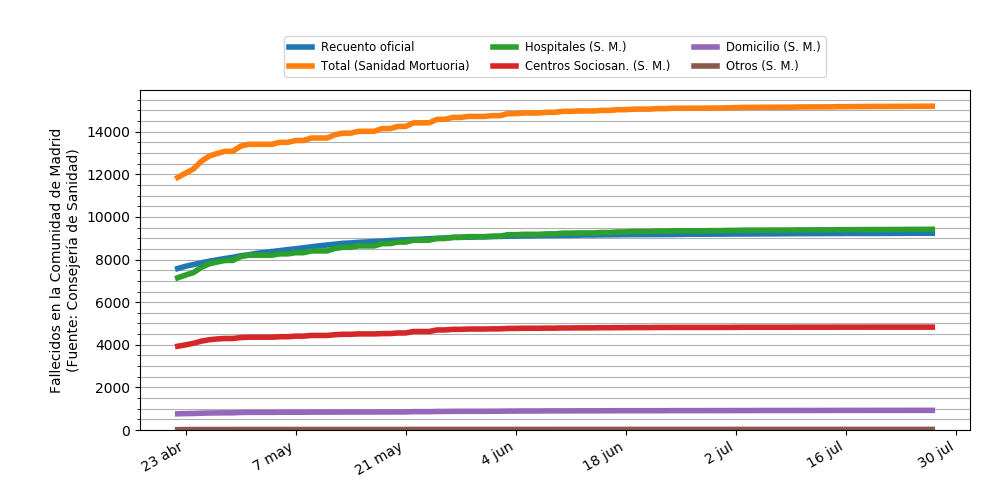
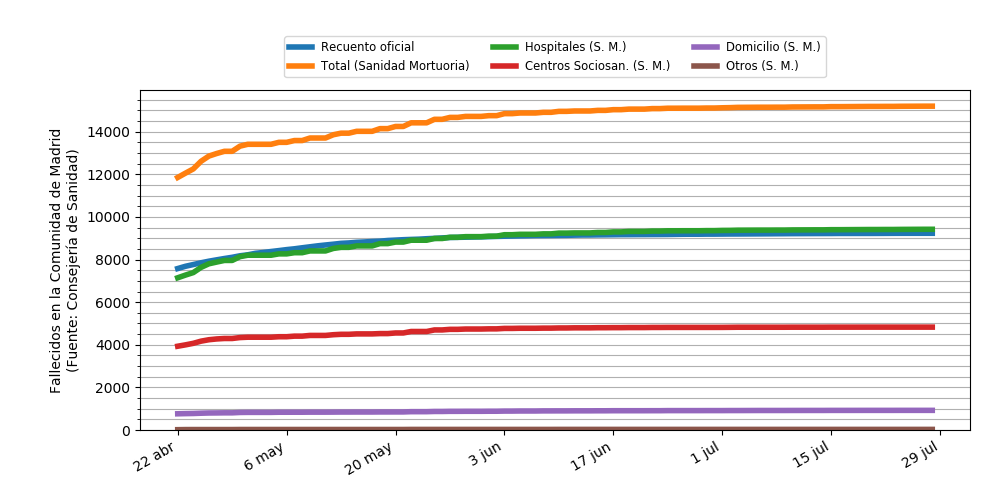
Add files via upload

diff --git a/covidia-cam/descarga_cam.py b/covidia-cam/descarga_cam.py
@@ -8,20 +8,19 @@ https://www.comunidad.madrid/servicios/salud/2019-nuevo-coronavirus#situacion-ep
 """
 
 import os.path as pth
-
-from descargabib import descarga
 import datetime as dt
 import time
 from glob import glob
+import re
+import pandas as pd
 
 from pdfminer.pdfinterp import PDFResourceManager, PDFPageInterpreter #process_pdf
 from pdfminer.pdfpage import PDFPage
 from pdfminer.converter import TextConverter
 from pdfminer.layout import LAParams
-
 from io import StringIO
-import re
-import pandas as pd
+
+from descargabib import descarga
 
 expnumber = re.compile(r'^ *(\d+(?: ?\. ?\d+)*)(?:[^\d/]|\s|\(|$|\.[^\d/]|\.\s|\.$)', re.M)
 
@@ -62,7 +61,6 @@ def descargacam():
     csvfn = datadir + 'madrid-series.csv'
     df = pd.DataFrame()
 
-
     for fn in sorted(glob(pdfdir + '20*_cam_covid19.pdf')):
         fn1 = fn.replace('.pdf', '_1.txt')
         fn2 = fn.replace('.pdf', '_2.txt')
@@ -82,7 +80,6 @@ def descargacam():
             page3 = pdf_to_text(fn, pagenum=2)
             with open(fn3, 'w', encoding='utf-8') as fp:
                 fp.write(page3)
-
 
     for fn in sorted(glob(pdfdir + '20*_cam_covid19_1.txt')):
         print(fn)
@@ -202,14 +199,10 @@ def descargacam():
         df.loc[date, 'muertos_otros'] = muertos_otros
         df.loc[date, 'muertos'] = muertos
 
-
-    df = df.T.astype(int)
-
-    df2 = df.T
-    df2.index.name = 'Fecha'
+    df = df.astype(int)
+    df.index.name = 'Fecha'
     print('Escribiendo', csvfn)
-    df2.to_csv(csvfn)
-
+    df.to_csv(csvfn)
 
     fn2 = sorted(glob(pdfdir + '20*_cam_covid19_2.txt'))[-1]
     fn3 = fn2.replace('_2.txt', '_3.txt')
@@ -251,9 +244,9 @@ def descargacam():
     sr = pd.Series(accum, index=dates)
     sr.name = 'PCR+'
     sr.index.name = 'Fecha'
-    df3 = sr.to_frame()
+    df2 = sr.to_frame()
 
-    if df2.index[-1] != df3.index[-1] + dt.timedelta(1):
+    if df.index[-1] != df2.index[-1] + dt.timedelta(1):
         raise RuntimeError('Última fecha de las tablas no coincide')
 
     assert all(sr.diff().dropna() >= 0), 'La serie acumulada no es creciente'
@@ -261,13 +254,10 @@ def descargacam():
 
     csvfn = datadir + 'madrid-pcr.csv'
     print('Escribiendo', csvfn)
-    df3.to_csv(csvfn)
+    df2.to_csv(csvfn)
 
-
-    print('ESTÁ ACTUALIZADO' if today == df.columns[-1].date() else
+    print('ESTÁ ACTUALIZADO' if today == df.index[-1].date() else
           '******************* NO ESTÁ ACTUALIZADO')
-
-
 
 
 # Extract PDF text using PDFMiner. Adapted from
